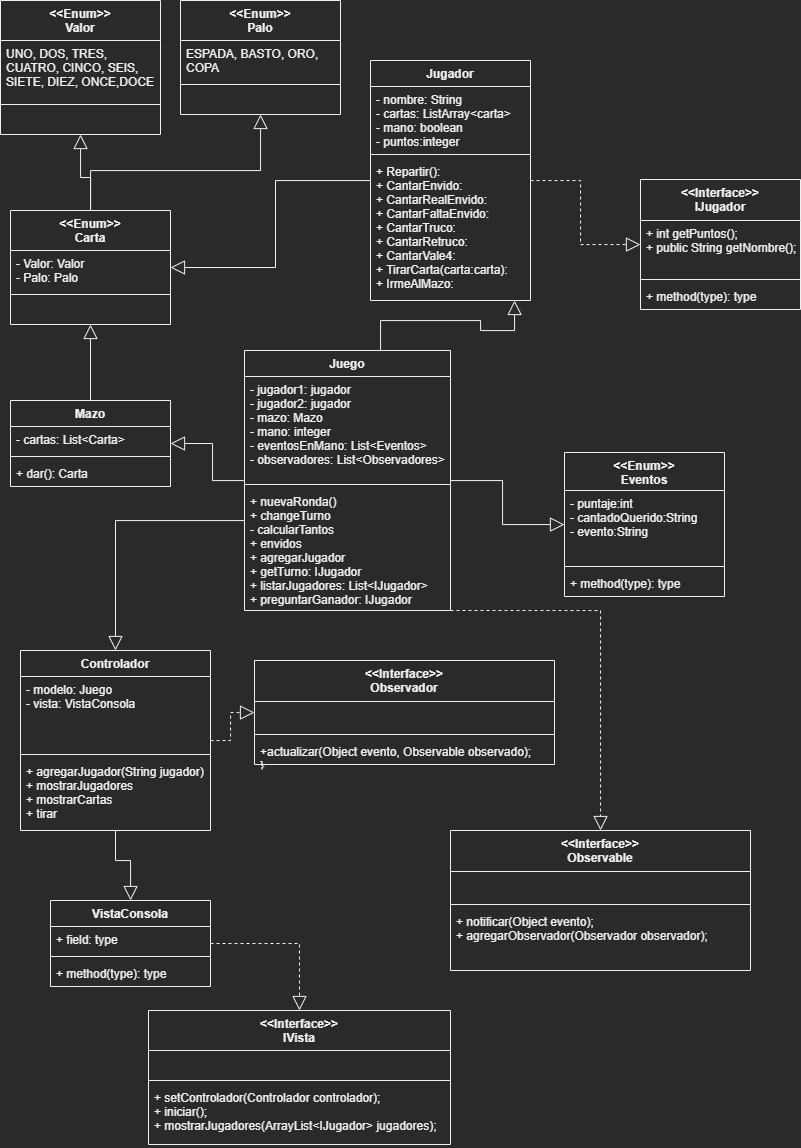
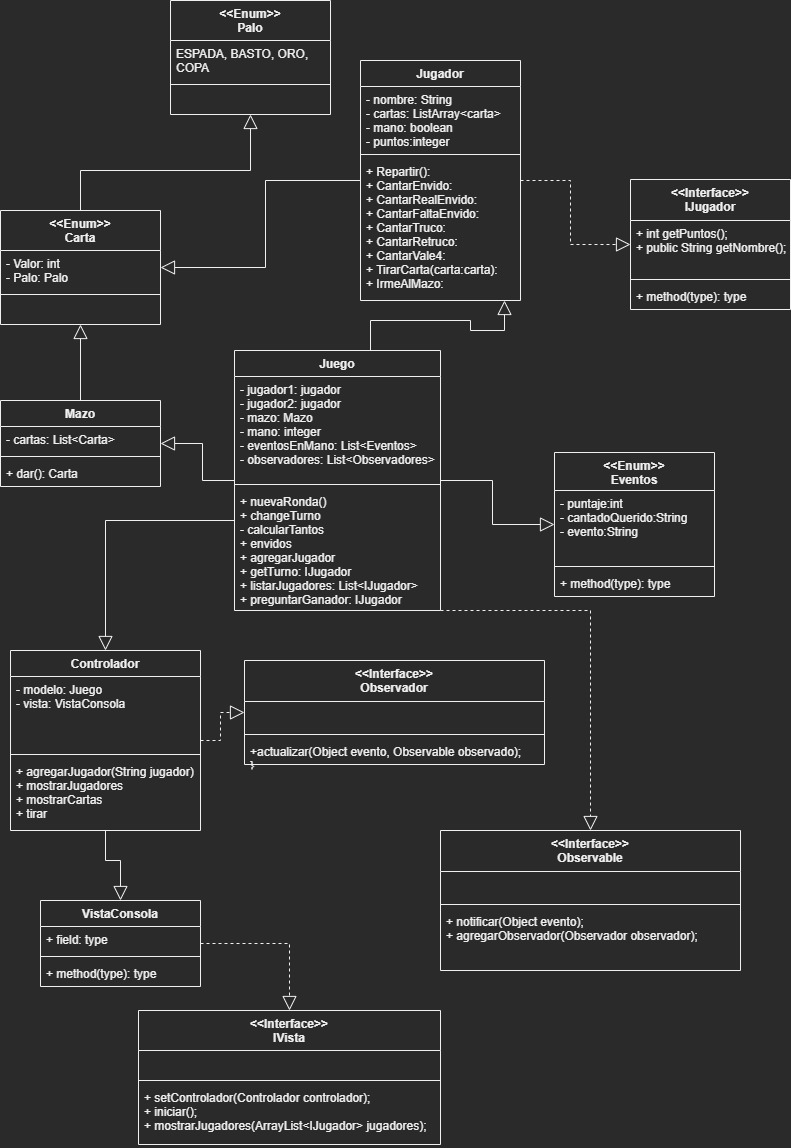
cambio en uml

diff --git a/Truco/src/modelo/Carta.java b/Truco/src/modelo/Carta.java
@@ -1,60 +1,62 @@
 package modelo;
 
-public enum Carta {		
-		UNODEESPADA(Palo.ESPADA,Valor.UNO),
-		UNODEBASTO(Palo.BASTO,Valor.UNO),
-		SIETEDEESPADA(Palo.ESPADA,Valor.SIETE),
-		SIETEDEORO(Palo.ORO,Valor.SIETE),
-		TRESDEESPADA(Palo.ESPADA,Valor.TRES),
-		TRESDEBASTO(Palo.BASTO,Valor.TRES),
-		TRESDEORO(Palo.ORO,Valor.TRES),
-		TRESDECOPA(Palo.COPA,Valor.TRES),
-		DOSDEESPADA(Palo.ESPADA,Valor.DOS),
-		DOSDEBASTO(Palo.BASTO,Valor.DOS),
-		DOSDEORO(Palo.ORO,Valor.DOS),
-		DOSDECOPA(Palo.COPA,Valor.DOS),
-		UNODEORO(Palo.ORO,Valor.UNO),
-		UNODECOPA(Palo.COPA,Valor.UNO),
-		DOCEDEESPADA(Palo.ESPADA,Valor.DOCE),
-		DOCEDEBASTO(Palo.BASTO,Valor.DOCE),
-		DOCEDEORO(Palo.ORO,Valor.DOCE),
-		DOCEDECOPA(Palo.COPA,Valor.DOCE),
-		ONCEDEESPADA(Palo.ESPADA,Valor.ONCE),
-		ONCEDEBASTO(Palo.BASTO,Valor.ONCE),
-		ONCEDEORO(Palo.ORO,Valor.ONCE),
-		ONCEDECOPA(Palo.COPA,Valor.ONCE),
-		DIEZDEESPADA(Palo.ESPADA,Valor.DIEZ),
-		DIEZDEBASTO(Palo.BASTO,Valor.DIEZ),
-		DIEZDEORO(Palo.ORO,Valor.DIEZ),
-		DIEZDECOPA(Palo.COPA,Valor.DIEZ),
-		SIETEDEBASTO(Palo.BASTO,Valor.SIETE),
-		SIETEDECOPA(Palo.COPA,Valor.SIETE),
-		SEISDEESPADA(Palo.ESPADA,Valor.SEIS),
-		SEISDEBASTO(Palo.BASTO,Valor.SEIS),
-		SEISDEORO(Palo.ORO,Valor.SEIS),
-		SEISDECOPA(Palo.COPA,Valor.SEIS),
-		CINCODEESPADA(Palo.ESPADA,Valor.CINCO),
-		CINCODEBASTO(Palo.BASTO,Valor.CINCO),
-		CINCODEORO(Palo.ORO,Valor.CINCO),
-		CINCODECOPA(Palo.COPA,Valor.CINCO),
-		CUATRODEESPADA(Palo.ESPADA,Valor.CUATRO),
-		CUATRODEBASTO(Palo.BASTO,Valor.CUATRO),
-		CUATRODEORO(Palo.ORO,Valor.CUATRO),
-		CUATRODECOPA(Palo.COPA,Valor.CUATRO);
+public enum Carta {	
+	UNODEESPADA(Palo.ESPADA,1),
+	UNODEBASTO(Palo.BASTO,2),
+	SIETEDEESPADA(Palo.ESPADA,7),
+	SIETEDEORO(Palo.ORO,7),
+	TRESDEESPADA(Palo.ESPADA,3),
+	TRESDEBASTO(Palo.BASTO,3),
+	TRESDEORO(Palo.ORO,3),
+	TRESDECOPA(Palo.COPA,3),
+	DOSDEESPADA(Palo.ESPADA,2),
+	DOSDEBASTO(Palo.BASTO,2),
+	DOSDEORO(Palo.ORO,2),
+	DOSDECOPA(Palo.COPA,2),
+	UNODEORO(Palo.ORO,1),
+	UNODECOPA(Palo.COPA,1),
+	DOCEDEESPADA(Palo.ESPADA,12),
+	DOCEDEBASTO(Palo.BASTO,12),
+	DOCEDEORO(Palo.ORO,12),
+	DOCEDECOPA(Palo.COPA,12),
+	ONCEDEESPADA(Palo.ESPADA,12),
+	ONCEDEBASTO(Palo.BASTO,11),
+	ONCEDEORO(Palo.ORO,11),
+	ONCEDECOPA(Palo.COPA,11),
+	DIEZDEESPADA(Palo.ESPADA,10),
+	DIEZDEBASTO(Palo.BASTO,10),
+	DIEZDEORO(Palo.ORO,10),
+	DIEZDECOPA(Palo.COPA,10),
+	SIETEDEBASTO(Palo.BASTO,7),
+	SIETEDECOPA(Palo.COPA,7),
+	SEISDEESPADA(Palo.ESPADA,6),
+	SEISDEBASTO(Palo.BASTO,6),
+	SEISDEORO(Palo.ORO,6),
+	SEISDECOPA(Palo.COPA,6),
+	CINCODEESPADA(Palo.ESPADA,5),
+	CINCODEBASTO(Palo.BASTO,5),
+	CINCODEORO(Palo.ORO,5),
+	CINCODECOPA(Palo.COPA,5),
+	CUATRODEESPADA(Palo.ESPADA,4),
+	CUATRODEBASTO(Palo.BASTO,4),
+	CUATRODEORO(Palo.ORO,4),
+	CUATRODECOPA(Palo.COPA,4);
+	
 	private Palo palo;
-	private Valor valor;
-	private Carta (Palo palo,Valor valor){
+	private int valor;
+	private Carta (Palo palo,int valor){
 		this.palo = palo;
 		this.valor=valor;
 	}
 
 	public String getPalo() {
-		return palo.toString();
+		return palo.toString().toLowerCase();
 	}
-	public String getValor() {
-		return valor.toString();
+	public int getValor() {
+		return valor;
 	}
-	public int getValoracion() {
-		return valor.gatValoracion();
+	public String toString() {
+		return getValor()+" de "+getPalo();
+		
 	}
 }

diff --git a/Truco/src/vista/VistaConsola.java b/Truco/src/vista/VistaConsola.java
@@ -7,23 +7,25 @@ import modelo.Carta;
 import modelo.Eventos;
 import controlador.Controlador;
 import modelo.IJugador;
+import observer.Observable;
 public class VistaConsola implements IVista {
 	private Controlador controlador;
 	private Scanner entrada;
 	public VistaConsola() {
 		this.entrada = new Scanner(System.in);
 	}
-	public void quererNoQuerer() {
+	public void quererNoQuerer(String mostrar,Eventos evento) {
+		System.out.println(mostrar);
 		System.out.println("Opciones");
 		System.out.println("1-Quiero");
 		System.out.println("2-No quiero");
 		String opcion = this.entrada.nextLine();
 		switch(Integer.valueOf(opcion)) {
 		case 1:
-			controlador.cantar(Eventos.ENVIDO_QUERIDO);
+			controlador.cantar(evento);
 			break;
 		case 2:
-			controlador.cantar(Eventos.ENVIDO_QUERIDO);}
+			controlador.cantar(evento);}
 	}
 	public void menuPMano() {
 		String opcion="0";
@@ -39,30 +41,29 @@ public class VistaConsola implements IVista {
 		case 1:
 			controlador.cantar(Eventos.ENVIDO_CANTADO);
 			System.out.println(controlador.preguntar(Eventos.ENVIDO_CANTADO));
-			quererNoQuerer();
 			break;
 		case 2:
 			controlador.cantar(Eventos.REALENVIDO_CANTADO);
 			System.out.println(controlador.preguntar(Eventos.REALENVIDO_CANTADO));
-			quererNoQuerer();
 			break;
 		case 3:
 			controlador.cantar(Eventos.FALTAENVIDO_CANTADO);
 			System.out.println(controlador.preguntar(Eventos.FALTAENVIDO_CANTADO));
-			quererNoQuerer();
 			break;
 		case 4:
-			controlador.cantar(Eventos.ENVIDO_CANTADO);
-			System.out.println(controlador.preguntar(Eventos.ENVIDO_CANTADO));
+			controlador.cantar(Eventos.TRUCO_CANTADO);
+			System.out.println(controlador.preguntar(Eventos.TRUCO_CANTADO));
 			break;
 		case 5:
-			int carta=0;
-			while (!(carta>0 && carta<4)) {
-			System.out.println("ingrese numero de carta<1-3>");
-			carta =Integer.valueOf(new Scanner(System.in).nextLine()) ;
+			Carta cartaTirada=null;
+			while (cartaTirada==null) {
+			System.out.println("Ingrese numero de carta<1-3>");
+			int carta =Integer.valueOf(new Scanner(System.in).nextLine()) ;
+			cartaTirada=controlador.tirar(carta);
 			}
-			Carta cartaTirada=controlador.tirar(carta);
-			System.out.println("Se tiro el "+cartaTirada.getValor()+" DE "+cartaTirada.getPalo()); 
+			System.out.print("\033[H\033[2J");  
+			System.out.flush(); 
+			System.out.println("Se tiro el "+cartaTirada.toString()); 
 			break;
 		default:
 			System.out.println("Opcion invalida");
@@ -74,13 +75,15 @@ public class VistaConsola implements IVista {
 		System.out.println("######### TRUCO ########");
 		System.out.println("########################");
 		System.out.println();
+		System.out.println("Presione enter para empezar el juego");
+		this.entrada.nextLine();
 		System.out.println("Ingrese nombre de jugador 1:");
 		String nameJ1 = this.entrada.nextLine();
 		System.out.println("Ingrese nombre de jugador 2:");
 		String nameJ2 = this.entrada.nextLine();
 		controlador.agregarJugador(nameJ1);
 		controlador.agregarJugador(nameJ2);
-		System.out.println("Comienza tirando:"+this.controlador.newjuego());
+		System.out.println("Comienza tirando:"+this.controlador.getTurno().getNombre());
 		System.out.println("Cartas:"+controlador.mostrarCartas());
 		menuPMano();
 		}

diff --git a/Truco/src/modelo/Juego.java b/Truco/src/modelo/Juego.java
@@ -14,6 +14,7 @@ public class Juego implements Observable{
 		private ArrayList<Eventos> eventosEnMano;//cada vez que reparto poner vacio
 		public Juego() {
 		observadores=new ArrayList<>();
+		
 	}
 	public void changeTurno() {
 		if (jugador1.isTurno()) {
@@ -44,7 +45,7 @@ public class Juego implements Observable{
 		} else {
 			carta3=jugador.getCartaTirada();
 		}
-			int c1v=carta1.getValoracion();int c2v=carta1.getValoracion();int c3v=carta1.getValoracion();//valoraciones de cartas
+			int c1v=carta1.getValor();int c2v=carta1.getValor();int c3v=carta1.getValor();//valoraciones de cartas
 			if (carta1.getPalo().equals(carta2.getPalo())&&carta2.getPalo().equals(carta3.getPalo())) {//caso son las 3 cartas mismo palo			
 				sumatoriajug+=((c1v<10)&&(((c2v<10)&&(c2v<c1v))||((c3v<10)&&(c3v<c1v))))?c1v:0;
 				sumatoriajug+=((c2v<10)&&(((c1v<10)&&(c1v<c2v))||((c3v<10)&&(c3v<c2v))))?c2v:0;
@@ -85,10 +86,12 @@ public class Juego implements Observable{
 			this.jugador1=new Jugador(jugador);
 		}else if (this.jugador2==null){
 			this.jugador2=new Jugador(jugador);
+			notificar(Eventos.JUEGO_INICIADO);
 		}
 	}
-	public void cantado() {
-		
+	public void cantado(Eventos evento) {
+		changeTurno();
+		notificar(evento);
 	}
 	public Jugador nuevaRonda() {
 		mazo=new Mazo();

diff --git a/Truco/src/controlador/Controlador.java b/Truco/src/controlador/Controlador.java
@@ -29,15 +29,17 @@ public void actualizar(Object evento, Observable observado) {
 		switch((Eventos) evento) {
 			case JUEGO_INICIADO:
 				ArrayList<IJugador> jugadores = this.modelo.listarJugadores();
+				modelo.nuevaRonda();
 				this.vista.mostrarJugadores(jugadores);
 				break;
+			case ENVIDO_CANTADO:
+				this.vista.quererNoQuerer(preguntar((Eventos)evento), (Eventos)evento); ;
 			default:
 			break;
 		}
 }}
-public String newjuego() {
-	return this.modelo.nuevaRonda().getNombre();
-	
+public IJugador getTurno() {
+	return modelo.getTurno();
 }
 public String mostrarJugadores() {
 	String ss="";
@@ -47,11 +49,15 @@ public String mostrarJugadores() {
 	return ss;
 }
 public String mostrarCartas() {
-	return (modelo.getTurno().getNombre()+": "+ modelo.getTurno().getCartas());
+	String ss=modelo.getTurno().getNombre()+": ";
+	for (Carta carta:modelo.getTurno().getCartas()) {
+		ss+=carta.toString()+", ";
+	}
+	return ss ;
 	
 }
 public void cantar(Eventos evento) {
-	
+	modelo.cantado(evento);
 }
 public Carta tirar(int carta) {
 	return modelo.getTurno().tirarCarta(carta);

diff --git a/Truco/src/modelo/Jugador.java b/Truco/src/modelo/Jugador.java
@@ -47,8 +47,14 @@ public class Jugador implements IJugador{
 			return evento;
 	}
 		}
+	/**
+	 *@return Retorna la carta que quiere tirar jugador<1-3>, en caso de que no tenga esa carta en mano devuelve nulo
+	 */
 	public Carta tirarCarta(int carta) {
-		return cartas.get(carta-1);
+		Carta retorno=null;
+		if (carta<= cartas.size()) {
+			retorno=cartas.get(carta-1);}
+		return retorno;
 		
 	}
 	public int getPuntos() {
